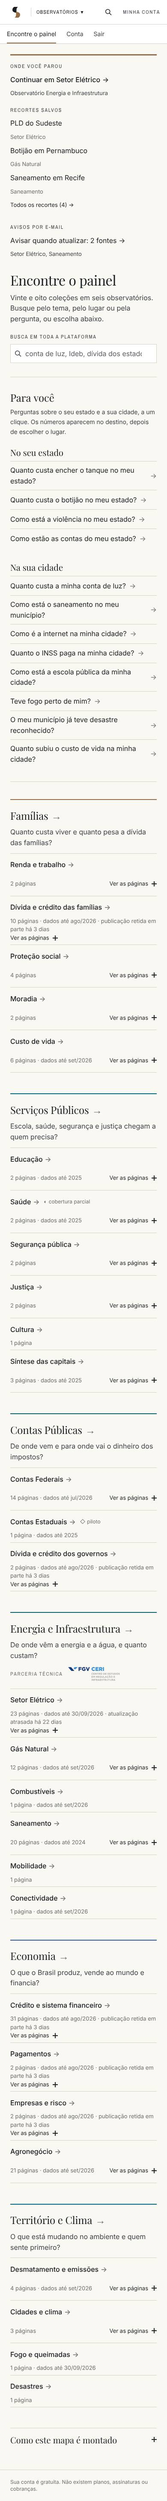
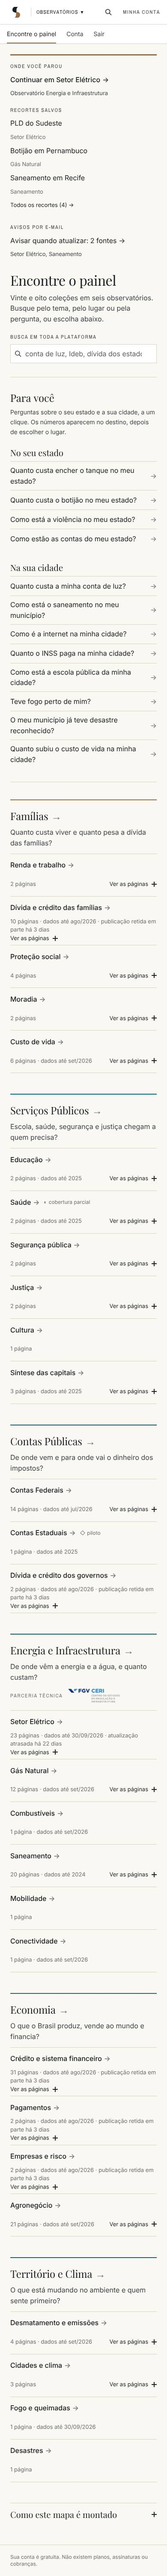
Mapa 1: testes que fixavam o seletor antigo mudam de propósito
dois-observatorios procurava OPCOES_OBSERVATORIOS no mapa e a linha literal do
middleware; energia-reauditoria procurava a faixa "seu lugar". O mapa agora
agrupa pelo registro em mapaConta.ts, não tem cartão por domínio, e a fatia
retomar é grade de uma coluna no celular. O middleware grava o último acesso
antes da linha que libera os painéis, que continua igual.

Claude-Session: https://claude.ai/code/session_012nTsRAATeVr29YpcXNkcau

diff --git a/src/tests/dois-observatorios.test.ts b/src/tests/dois-observatorios.test.ts
@@ -85,9 +85,10 @@ describe("registro de domínios", () => {
     expect(ler("src/components/home/SecaoObservatorios.tsx")).toContain("DOMINIOS.map");
     // o seletor lista as coleções do registro; a Síntese das capitais é a coleção da Eficiência Estatal (Iniciativa 1, 21/10/2026)
     expect(ler("src/components/layout/NavegacaoContexto.tsx")).toContain("o.colecoes.map");
-    // a escolha pós login agrupa os cartões das coleções pelos seis observatórios
-    expect(ler("src/app/app/(foco)/observatorios/page.tsx")).toContain("OBSERVATORIOS.map");
-    expect(ler("src/app/app/(foco)/observatorios/page.tsx")).toContain("OPCOES_OBSERVATORIOS.filter");
+    // o mapa da conta agrupa as coleções pelos seis observatórios do registro; desde a Iniciativa M1 do parecer de UX de
+    // 23/10/2026 não há mais cartão por domínio (OPCOES_OBSERVATORIOS) no mapa: a Síntese das capitais é uma coleção com link
+    expect(ler("src/lib/observatorios/mapaConta.ts")).toContain("OBSERVATORIOS.map");
+    expect(ler("src/app/app/(foco)/observatorios/page.tsx")).not.toContain("OPCOES_OBSERVATORIOS");
     expect(ler("src/components/layout/PublicHeader.tsx")).toContain("<AbasCabecalho");
     // o cabeçalho público lista os seis observatórios; a Eficiência Estatal chega por eles (src/lib/observatorios/registro.ts)
     expect(ler("src/components/layout/navCabecalho.ts")).toContain("OBSERVATORIOS");

diff --git a/src/tests/energia-reauditoria.test.ts b/src/tests/energia-reauditoria.test.ts
@@ -233,9 +233,11 @@ describe("auditoria final: regressões", () => {
 
 describe("auditoria final B: regressões", () => {
   it("selo da tela de escolha quebra linha em tela estreita", () => {
-    const t = ler("src/app/app/(foco)/observatorios/page.tsx");
-    expect(t).toContain("flex flex-wrap items-start justify-between");
-    expect(t).not.toMatch(/rotulo shrink-0 border border-linha px-2 py-1 text-mineral">sua última escolha/);
+    // Iniciativa M1 do parecer de UX de 23/10/2026: a faixa "seu lugar" virou a fatia "retomar" do mapa, em grade de uma coluna
+    // abaixo de 1024 px; o selo "sua última escolha" não voltou
+    const t = ler("src/components/observatorios/MapaDaConta.tsx") + ler("src/app/app/(foco)/observatorios/page.tsx");
+    expect(ler("src/components/observatorios/MapaDaConta.module.css")).toMatch(/\.retomar \{ display: grid; grid-template-columns: minmax\(0, 1fr\)/);
+    expect(t).not.toMatch(/sua última escolha/);
   });
 
   it("gavetas da amplitude usam a proveniência da amplitude, sem recuar para a de outra grandeza", () => {

diff --git a/src/middleware.ts b/src/middleware.ts
@@ -114,7 +114,10 @@ export async function middleware(request: NextRequest) {
       // Escape inválido não fornece um caminho de política alternativo.
     }
   }
-  if (!pathname.startsWith("/app")) return marcarUltimoAcesso(request, NextResponse.next(), paginaHtml(request) ? ultimoAcessoDoCaminho(pathname) : null);
+  // painel de uma coleção ou entrada de observatório, com sessão: grava o último acesso (Iniciativa M1)
+  const valorPainel = !pathname.startsWith("/app") && paginaHtml(request) ? ultimoAcessoDoCaminho(pathname) : null;
+  if (valorPainel) return marcarUltimoAcesso(request, NextResponse.next(), valorPainel);
+  if (!pathname.startsWith("/app")) return NextResponse.next();
   return protegerAdmin(request, pathname, "pt");
 }
 

diff --git a/docs/ux-2026-10-23/mapa/depois-conta-que-volta/evidencias.md b/docs/ux-2026-10-23/mapa/depois-conta-que-volta/evidencias.md
@@ -1,6 +1,6 @@
 ### Evidências de página (2026-10-23)
 
-Build 5250fQWCk-bZ_h6FnW6Hr, `next start` local com banco temporário e sessão de teste. Máquina: 2 vCPU, 8 GB. Comando: `npm run evidencias -- --rotas /app/observatorios --saida docs/ux-2026-10-23/mapa/depois-conta-que-volta --larguras 390,1440 --modos com --conta volta`. Tempo: 0 min 09 s.
+Build cL8ZREMolGx-lTzORKl3-, `next start` local com banco temporário e sessão de teste. Máquina: 2 vCPU, 8 GB. Comando: `npm run evidencias -- --rotas /app/observatorios --saida docs/ux-2026-10-23/mapa/depois-conta-que-volta --larguras 390,1440 --modos com --conta volta`. Tempo: 0 min 10 s.
 
 Cromo: do topo da barra comum ao início do conteúdo, em px, com o orçamento da Iniciativa 2 a 390 e 1440 px. Axe: violações WCAG 2.1 A e AA (regra e número de nós). Login: requisições feitas pela página (arquivos, dados, APIs) que caíram em /entrar; o redirecionamento da própria página aparece na coluna Endereço final.
 

diff --git a/docs/ux-2026-10-23/mapa/depois-conta-nova/evidencias.md b/docs/ux-2026-10-23/mapa/depois-conta-nova/evidencias.md
@@ -1,6 +1,6 @@
 ### Evidências de página (2026-10-23)
 
-Build 5250fQWCk-bZ_h6FnW6Hr, `next start` local com banco temporário e sessão de teste. Máquina: 2 vCPU, 8 GB. Comando: `npm run evidencias -- --rotas /app/observatorios --saida docs/ux-2026-10-23/mapa/depois-conta-nova --larguras 390,1440 --modos com`. Tempo: 0 min 09 s.
+Build cL8ZREMolGx-lTzORKl3-, `next start` local com banco temporário e sessão de teste. Máquina: 2 vCPU, 8 GB. Comando: `npm run evidencias -- --rotas /app/observatorios --saida docs/ux-2026-10-23/mapa/depois-conta-nova --larguras 390,1440 --modos com`. Tempo: 0 min 09 s.
 
 Cromo: do topo da barra comum ao início do conteúdo, em px, com o orçamento da Iniciativa 2 a 390 e 1440 px. Axe: violações WCAG 2.1 A e AA (regra e número de nós). Login: requisições feitas pela página (arquivos, dados, APIs) que caíram em /entrar; o redirecionamento da própria página aparece na coluna Endereço final.
 
